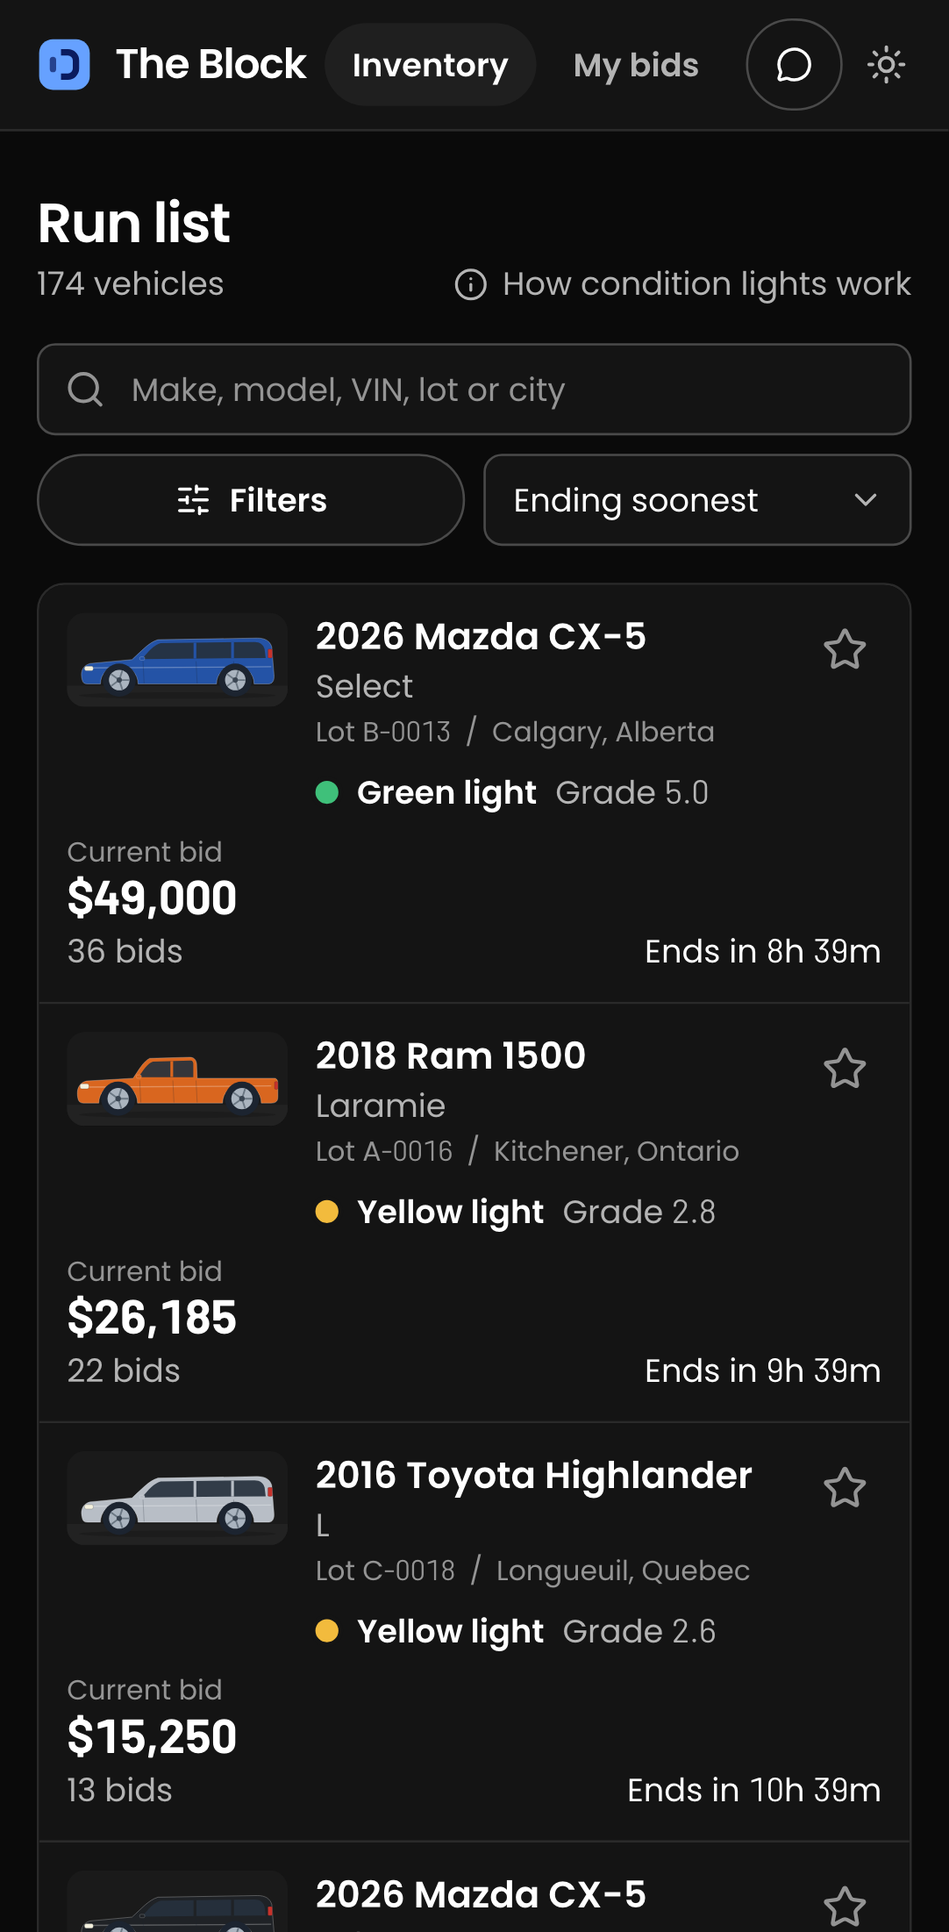
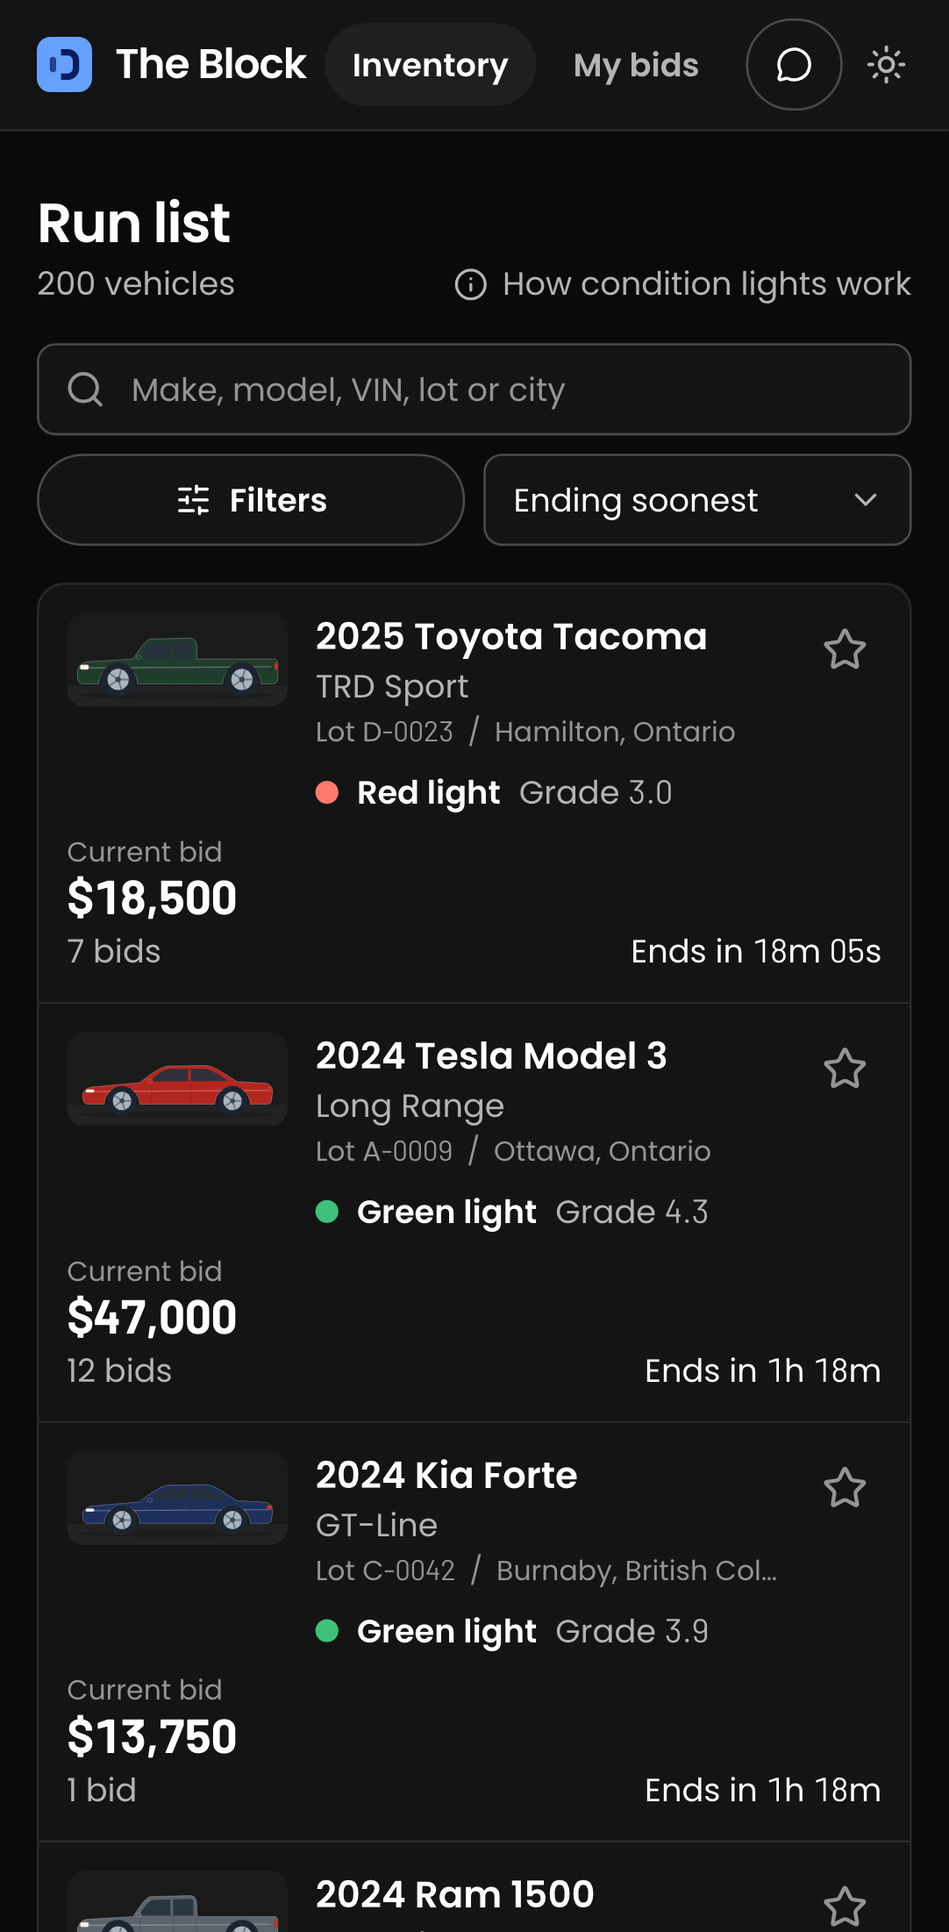
README: fresh screenshots, 3–4 hours, plain-language explanations (#25)
- New screenshots of the current app: run list, a salvage-title car, Lane suggesting two SUVs,
  and the run list and a car page on a phone (dark theme).
- Time spent: about 3–4 hours.
- Every section rewritten in plain words; the facts and setup steps are unchanged.

diff --git a/README.md b/README.md
@@ -1,191 +1,171 @@
 # The Block
 
-The buyer side of a live wholesale vehicle auction, built for the [OPENLANE coding challenge](docs/CHALLENGE.md).
-Dealers browse a run list of 200 vehicles, judge condition at a glance, and bid against live
-(simulated) competition: prices move in real time, and you're told the moment you're outbid.
+The buyer side of a live online car auction, built for the [OPENLANE coding challenge](docs/CHALLENGE.md).
+Dealers browse 200 vehicles, check their condition, and bid. Prices change live as other
+(simulated) dealers bid, and you're told the moment someone outbids you.
 
 ![Run list](docs/screenshots/run-list.png)
 
-| Vehicle detail                                                                                  | On a phone (dark theme)                                     |
-| ----------------------------------------------------------------------------------------------- | ----------------------------------------------------------- |
-| ![Vehicle detail with salvage-title warning and bid panel](docs/screenshots/vehicle-detail.png) | ![Run list on a phone](docs/screenshots/phone-run-list.png) |
+| Vehicle page                                                                      | On a phone (dark theme)                                     |
+| --------------------------------------------------------------------------------- | ----------------------------------------------------------- |
+| ![Vehicle page with a salvage-title warning](docs/screenshots/vehicle-detail.png) | ![Run list on a phone](docs/screenshots/phone-run-list.png) |
+
+| Lane, the car-finding assistant                                            | Vehicle page on a phone                                        |
+| -------------------------------------------------------------------------- | -------------------------------------------------------------- |
+| ![Lane suggesting two SUVs beside the run list](docs/screenshots/lane.png) | ![Vehicle page on a phone](docs/screenshots/phone-vehicle.png) |
 
 ## How to run
 
-**Prerequisites:** Node.js ≥ 22 and [uv](https://docs.astral.sh/uv/getting-started/installation/)
+**You need:** Node.js 22 or newer, and [uv](https://docs.astral.sh/uv/getting-started/installation/)
 (uv installs the right Python by itself).
 
 ```bash
-npm run setup   # web dependencies (npm) + API dependencies (uv)
-npm run dev     # API on :8000, web app on :5173
+npm run setup   # installs everything
+npm run dev     # starts the API on :8000 and the web app on :5173
 ```
 
-Open **http://localhost:5173**. The database is created and seeded from `data/vehicles.json` on
-first start. Rival dealers start bidding a few seconds later.
+Open **http://localhost:5173**. The database is created and filled from `data/vehicles.json` the
+first time it starts. Other dealers start bidding a few seconds later.
 
-| Command                            | What it does                                                                                                 |
-| ---------------------------------- | ------------------------------------------------------------------------------------------------------------ |
-| `npm test`                         | API tests (pytest) and web tests (Vitest)                                                                    |
-| `npm --workspace web run test:e2e` | Playwright end-to-end tests (run `npx --workspace web playwright install chromium` once first)               |
-| `npm run lint`                     | ruff + strict mypy, oxlint + tsc + prettier                                                                  |
-| `npm run build`                    | Production build of the web app                                                                              |
-| `npm run reset-db`                 | Start over: fresh data and a fresh auction clock (stop `npm run dev` first; open tabs resync when it's back) |
-| `SIMULATOR_ENABLED=0 npm run dev`  | Turn the rival bidders off                                                                                   |
+| Command                            | What it does                                                                              |
+| ---------------------------------- | ----------------------------------------------------------------------------------------- |
+| `npm test`                         | Runs the API tests and the web tests                                                      |
+| `npm --workspace web run test:e2e` | Runs the browser tests (first run `npx --workspace web playwright install chromium` once) |
+| `npm run lint`                     | Checks code style and types                                                               |
+| `npm run build`                    | Builds the web app for production                                                         |
+| `npm run reset-db`                 | Starts over with fresh data (stop `npm run dev` first)                                    |
+| `SIMULATOR_ENABLED=0 npm run dev`  | Runs without the simulated bidders                                                        |
 
-The API's interactive docs are at **http://localhost:8000/docs**.
+The API's docs are at **http://localhost:8000/docs**.
 
 ### Lane, the car-finding assistant (optional)
 
-Lane answers with your own ChatGPT account, through the
+Lane uses your own ChatGPT account through the
 [Codex CLI](https://developers.openai.com/codex/cli) (version 0.163 or newer):
 
 ```bash
 npm install -g @openai/codex   # or: brew install --cask codex
 ```
 
-Then click **Ask Lane** in the app and **Sign in with ChatGPT**. Lane stays signed in on this
-computer (in `server/.lane/`, separate from your own Codex settings) and uses your ChatGPT plan's
-usage. It's meant for local demos. The rest of the app works without it; `LANE_ENABLED=0` turns
-it off. If Lane says Codex didn't start, its output is in `server/.lane/app-server.log`.
-`LANE_CODEX_COMMAND` (default `codex`) and `LANE_HOME` (default `server/.lane`) point Lane at
-another Codex or sign-in folder.
+Then click **Ask Lane** in the app and **Sign in with ChatGPT**.
+
+- Lane stays signed in on this computer. Its sign-in is kept in `server/.lane/`, apart from your
+  own Codex settings, and it uses your ChatGPT plan.
+- The rest of the app works without it. `LANE_ENABLED=0` turns it off.
+- If Lane says Codex didn't start, look in `server/.lane/app-server.log`.
+- `LANE_CODEX_COMMAND` (default `codex`) and `LANE_HOME` (default `server/.lane`) point Lane at a
+  different Codex or sign-in folder.
+
+## Time spent
+
+About 3–4 hours, as the brief asks.
 
 ## What I built
 
-- **Run list.** Dense rows, not a card grid, the way auction run lists are read. Each row shows
-  the vehicle, key specs, a **condition light**, price, a live countdown, and your standing.
-  From 1280px it's a table with aligned, evenly spaced columns (the reserve under the price),
-  and wider monitors add columns (odometer, location) instead of empty space. Search (make, model, trim, VIN, lot, city, dealer),
-  multi-select filters with live counts (searchable for makes and provinces), sorting, and
-  pagination all live in the URL. Filters sit in a rail on desktop and a bottom sheet on phones.
-- **Vehicle detail.** Illustrated views in the car's real paint colour, a condition report that
-  leads with what matters (branded-title warning, a 1–5 grade meter, damage grouped **major →
-  mechanical → cosmetic**), specs with VIN copy, and the selling dealer.
-- **Bidding.** Quick amounts or a custom one, validated as you type, then a **two-step confirm**.
-  Pre-bids on upcoming auctions, **Buy Now**, a 2-minute **soft close**, and server-side guards
-  against bidding below the minimum, outbidding yourself, fat-finger amounts, and bidding past
-  Buy Now.
-- **Live.** One Server-Sent Events stream updates every price on screen, shared by all open
-  tabs (a SharedWorker), so many tabs can't use up the browser's connections to the site. You
-  get an **outbid toast** with a "Bid again" link. The header shows when the connection drops.
-- **My bids.** Outbid → Winning → Watching → Finished, with a nav badge counting the auctions you
-  need to act on.
-- **Lane, the car-finding assistant.** Describe what you want in plain words ("an SUV under
-  $30,000 with low kilometres, closing today") and Lane picks up to four cars from the run list,
-  each with its live price, countdown and the reason it fits, plus a link that opens the same
-  search in the run list. It knows which car you're looking at, can't bid for you, and only
-  recommends cars that exist. You choose the model and effort. On wide screens it docks beside
-  the page; the run list then switches to its narrower layout.
+- **Run list.** One row per vehicle, the way auction lists are read. Each row shows the car, its
+  main specs, a condition light, the price, a live countdown and where you stand. On wide screens
+  it becomes a table, and very wide screens get extra columns instead of empty space. You can
+  search (make, model, trim, VIN, lot, city, dealer), filter, sort and page, and all of it is kept
+  in the URL, so a link or the back button brings you to the same list.
+- **Vehicle page.** Drawings of the car in its real paint colour, the condition report with the
+  most important things first (a warning for branded titles, a 1–5 grade, damage sorted by how
+  serious it is), the specs with a copyable VIN, and the selling dealer.
+- **Bidding.** Pick a suggested amount or type one, then confirm. You can bid on upcoming
+  auctions early and use Buy Now. A bid in the last 2 minutes adds time, so others can respond.
+  The server refuses bids that are too low, outbid yourself, are far too high by mistake, or go
+  past the Buy Now price.
+- **Live updates.** Prices change on screen as bids come in, in every open tab. If you're outbid,
+  a message pops up with a "Bid again" link. The header shows when the connection drops.
+- **My bids.** Your auctions grouped as Outbid, Winning, Watching and Finished, with a count of
+  the ones that need you.
+- **Lane, the car-finding assistant.** Describe what you want ("an SUV under $30,000 with low
+  kilometres, closing today") and Lane picks up to four cars from the run list. Each comes with
+  its live price, its countdown and why it fits, plus a link that opens the same search in the
+  run list. It knows which car you're looking at, can't bid for you, and only suggests cars that
+  exist. You choose the model and how hard it thinks.
 
 ## Stack
 
 |              |                                                                                                   |
 | ------------ | ------------------------------------------------------------------------------------------------- |
 | **Frontend** | React 19, TypeScript 7, Vite, Tailwind v4, TanStack Query, React Router, Radix primitives, Motion |
-| **Backend**  | Python 3.12, FastAPI (with native SSE), Pydantic, SQLAlchemy 2                                    |
-| **Database** | SQLite (WAL; `BEGIN IMMEDIATE` for bids)                                                          |
+| **Backend**  | Python 3.12, FastAPI, Pydantic, SQLAlchemy 2                                                      |
+| **Database** | SQLite                                                                                            |
 | **Testing**  | pytest, Vitest + Testing Library, Playwright                                                      |
-| **Tooling**  | uv, npm workspaces, ruff, mypy (strict), oxlint, prettier, GitHub Actions                         |
+| **Tooling**  | uv, npm workspaces, ruff, mypy, oxlint, prettier, GitHub Actions                                  |
 
 ```
-server/   FastAPI app: domain rules (pure), services, routers, rival simulator, seed
-web/      React app: routes, components, typed API client (generated from the server's models)
-data/     vehicles.json, the provided dataset (source of truth for seeding)
-docs/     Original challenge brief and screenshots
+server/   The API: auction rules, bidding, the bidder simulator, loading the data
+web/      The web app: pages, components, and an API client typed from the server
+data/     vehicles.json, the dataset from the challenge
+docs/     The challenge brief and screenshots
 ```
 
 ## Notable decisions
 
-The ones that shaped the product:
-
-- **Time made relative to now.** The dataset's auction dates are all in the past. The schedule
-  keeps their relative spacing, shifted so the first auction closes 20 minutes after startup.
-  4-day auctions give a mix of 112 live and 88 upcoming. The data restarts itself once
-  everything has closed, so the app works whenever you clone it.
-- **Pre-bids.** 43 vehicles that land in "upcoming" already have bids in the data. Wholesale
-  lanes accept proxy bids before a car runs, so the app allows them too.
-- **The reserve is never revealed**, only whether it's met, as on real platforms. The amount has
-  no field in any API response.
-- **Condition lights** (green / yellow / red), borrowed from the lights over a physical auction
-  lane. They're derived from title status and damage severity, with the rule shown in a legend.
-- **Correct under concurrency.** Bids run in one write-locked transaction, and the clock is read
-  only after the lock is held. A 6-thread test fires identical bids at once: exactly one wins.
-  Idempotency keys make retries safe. On the client, the newest snapshot (by bid count) wins, so
-  out-of-order events and refetches can't roll a price back.
-- **Data honesty.** The dataset has bid counts but no bid history, and 34 vehicles claim more
-  bids than any increment ladder allows (e.g. 11 bids within $500). Synthesized histories obey
-  the increments, and the stored bid count follows the history.
-- **Rival bidders that are plausible, not rigged.** They counter a human only after 20 seconds,
-  stop at a private ceiling (so a determined buyer can win), and go through the same bid rules.
+- **Auction times are moved to "now".** The dataset's dates are all in the past. I kept the gaps
+  between them and shifted them so the first auction ends 20 minutes after you start the app.
+  That gives 112 live and 88 upcoming auctions. When everything has ended, the data starts over
+  by itself, so the app works whenever you clone it.
+- **Bids before an auction opens.** 43 upcoming cars already have bids in the data. Real
+  wholesale auctions take early bids, so the app does too.
+- **The reserve price stays secret.** You only see whether it's met, as on real auction sites.
+  The amount never leaves the server.
+- **Condition lights** (green, yellow, red), like the lights over a real auction lane. They come
+  from the title and how serious the damage is, and a legend explains the rule.
+- **Two bids at the same moment can't both win.** Bids are handled one at a time on the server.
+  A test fires the same bid six times at once, and exactly one goes through. Sending the same bid
+  twice by accident (a double click, a retry) only places it once.
+- **Honest data.** The dataset has bid counts but no bid history, and 34 cars have more bids than
+  their prices allow. I made up histories that follow the bid steps and set the count to match.
+- **Fair rival bidders.** They only answer you after 20 seconds and each stops at its own limit,
+  so you can win.
 
 ## Assumptions and scope
 
-- One anonymous buyer per browser (a random id in `localStorage`). No accounts, as the brief
-  allows.
-- The listing data has no photos, so each car is drawn in its body style and paint colour, and
-  labelled as an illustration.
-- Times in the dataset are treated as UTC. Money is whole dollars (CAD formatting).
-- **Deliberately not built:** checkout and payments after winning, seller tools, notifications
-  outside the app, proxy (maximum) bidding, saved searches.
+- One buyer per browser, without accounts (the brief allows this).
+- The data has no real photos (only placeholder links), so each car is drawn in its body style
+  and paint colour, labelled as a drawing.
+- Times in the data are UTC. Money is in whole Canadian dollars.
+- **Not built, on purpose:** checkout and payment after winning, seller tools, emails or push
+  notifications, automatic (maximum) bidding, saved searches.
 
 ## Testing
 
-- **API: 180 pytest tests.** Auction rules, schedule normalization, seeding invariants, search
-  and facets, every bid rejection, idempotency, soft close, Buy Now, the concurrency race, SSE
-  personalization and backpressure, and simulator behaviour. Lane's tests run against a fake
-  Codex (`server/tests/fake_codex.py`), so they never need an account. Warnings are errors.
-- **Web: 191 Vitest tests.** Formatting and rules, the API client, the clock sync, URL filter
-  state, the run list, the bid flow (two-step confirm, outbid recovery, amount pinning), live
-  events through a fake `EventSource`, the stream shared between tabs, toasts, My bids, Lane's
-  panel, and the logo matching the browser tab's icon.
-- **End to end: 8 Playwright tests** on desktop and a phone viewport. They find a car, bid,
-  return to the filtered run list, and see the bid in My bids. They also cover the mobile filter
-  sheet, asking Lane for a car and opening its pick, eight tabs open at once, where the vehicle
-  page puts the condition report at each width, and the run-list table's columns.
-- **Manual QA in a real browser** (desktop, dark mode, 390px): found and fixed the search
-  over-matching ("ford" matched "Oxford White"), filter checkboxes reordering under the cursor, a
-  cropped illustration, and the animated price lingering on "$13,997". It also confirmed a real
-  outbid by a simulated rival end to end.
-- **Accessibility:** every text colour meets WCAG AA (4.5:1) on the backgrounds it's used on, in both themes,
-  checked by script. Keyboard focus is visible, there's a skip link, live regions announce
-  standing changes, toasts pause while hovered or focused, and reduced motion is respected.
-- CI runs lint, types, unit and e2e tests on every PR, and fails if the generated API types
-  drift from the server.
+- **API: 180 tests.** Auction rules, the time shift, search and filters, every reason a bid can
+  be refused, double-sent bids, the 2-minute extension, Buy Now, two bids at once, live updates,
+  and the simulated bidders. Lane is tested against a fake Codex, so no account is needed.
+- **Web: 191 tests.** Formatting, filters in the URL, the run list, the bid flow, live updates,
+  the connection shared between tabs, pop-up messages, My bids, and Lane's panel.
+- **Browser: 8 tests** on a desktop and a phone screen. Find a car, bid, go back to the list, see
+  the bid in My bids. Also: filters on a phone, asking Lane for a car, eight tabs open at once, the
+  vehicle page layout at different widths, and the run-list table.
+- **By hand in a real browser** (desktop, dark mode, phone width). This caught, for example, a
+  search for "ford" that also matched "Oxford White". Lane was tried with a real ChatGPT account.
+- **Accessibility:** all text is readable against its background (WCAG AA) in both themes, the
+  app works with a keyboard, screen readers hear changes in your standing, and animation is
+  turned down when your system asks for less motion.
+- Every pull request runs all the checks and tests on GitHub.
 
 ## How it was built
 
-I worked with **Claude Code** as an AI pair. I set the product direction, constraints and review
-bar. The agent analysed the repo and data, drafted code, and ran the reviews and QA. The work
-shipped as **nine slices** (setup → domain → inventory API → bidding API → live updates → web
-foundation → run list → detail and bidding → live UI). Each slice was built, tested, put through
-a code review, fixed, and merged by PR once CI was green: see the
-[PR history](https://github.com/mohazari/the-block/pulls?q=is%3Apr+is%3Aclosed). Reviews found
-real bugs that every PR description lists, for example a stale clock read before the bid lock,
-an idempotency key that could replay a bid as a Buy Now, and a refetch that could roll back a
-live price.
+I worked with **Claude Code** as an AI pair programmer. I chose what to build, set the rules and
+reviewed the work. The agent read the repo and data, wrote code, and ran the reviews and checks.
+The work went in as small pull requests, each one built, tested, reviewed, fixed and merged once
+all checks passed: see the
+[PR history](https://github.com/mohazari/the-block/pulls?q=is%3Apr+is%3Aclosed). The reviews found
+real bugs, and each PR lists them.
 
-Design references: the
-[ui-ux-pro-max](https://github.com/nextlevelbuilder/ui-ux-pro-max-skill) skill (its auction
-colour semantics and accessibility rules were used; its serif body font and dark-first theme were
-rejected for a data-dense tool) and [Motion](https://github.com/motiondivision/motion) for
-animation. A later design refresh used the
-[taste-skill](https://github.com/Leonxlnx/taste-skill)'s rules for app screens and its
-real-browser inspector, and took colours and type from OPENLANE itself: its published palette
-and Poppins, with tabular figures from Barlow for prices and countdowns.
-
-## Time spent
-
-Well beyond the suggested 3–4 hours, by choice: the goal was a full-stack version with tested
-concurrency and live updates. The slice-by-slice PRs show where the time went.
+Design: the [ui-ux-pro-max](https://github.com/nextlevelbuilder/ui-ux-pro-max-skill) and
+[taste-skill](https://github.com/Leonxlnx/taste-skill) guides, with colours and the Poppins font
+taken from OPENLANE's own site, and [Motion](https://github.com/motiondivision/motion) for
+animation.
 
 ## What I'd do with more time
 
-- **Proxy (maximum) bidding.** It's how most dealers actually bid, and the bid transaction is
-  already the right place for it.
-- **Real photos and condition-report media**, with the illustrations kept as the fallback.
-- **Postgres and a shared event channel** (`LISTEN/NOTIFY` or Redis) to run more than one API
-  process; the code notes where that changes.
-- **Accounts and notifications** (email/push when outbid or when a watched car opens).
-- **Full-text search with ranking** (SQLite FTS5 or Postgres), so a query like "ford" ranks Ford
-  makes above dealers named Ford.
-- **Post-auction flow:** what happens after "You won" (invoice, transport, arbitration window).
+- **Automatic (maximum) bidding.** It's how most dealers really bid.
+- **Real photos and condition-report pictures**, keeping the drawings as a fallback.
+- **Run more than one API server**, with Postgres and a shared channel for live updates.
+- **Accounts and notifications** (email or push when you're outbid or a watched car opens).
+- **Better search ranking**, so "ford" shows Ford cars before dealers named Ford.
+- **What happens after you win:** invoice, transport, and a window to raise problems.
